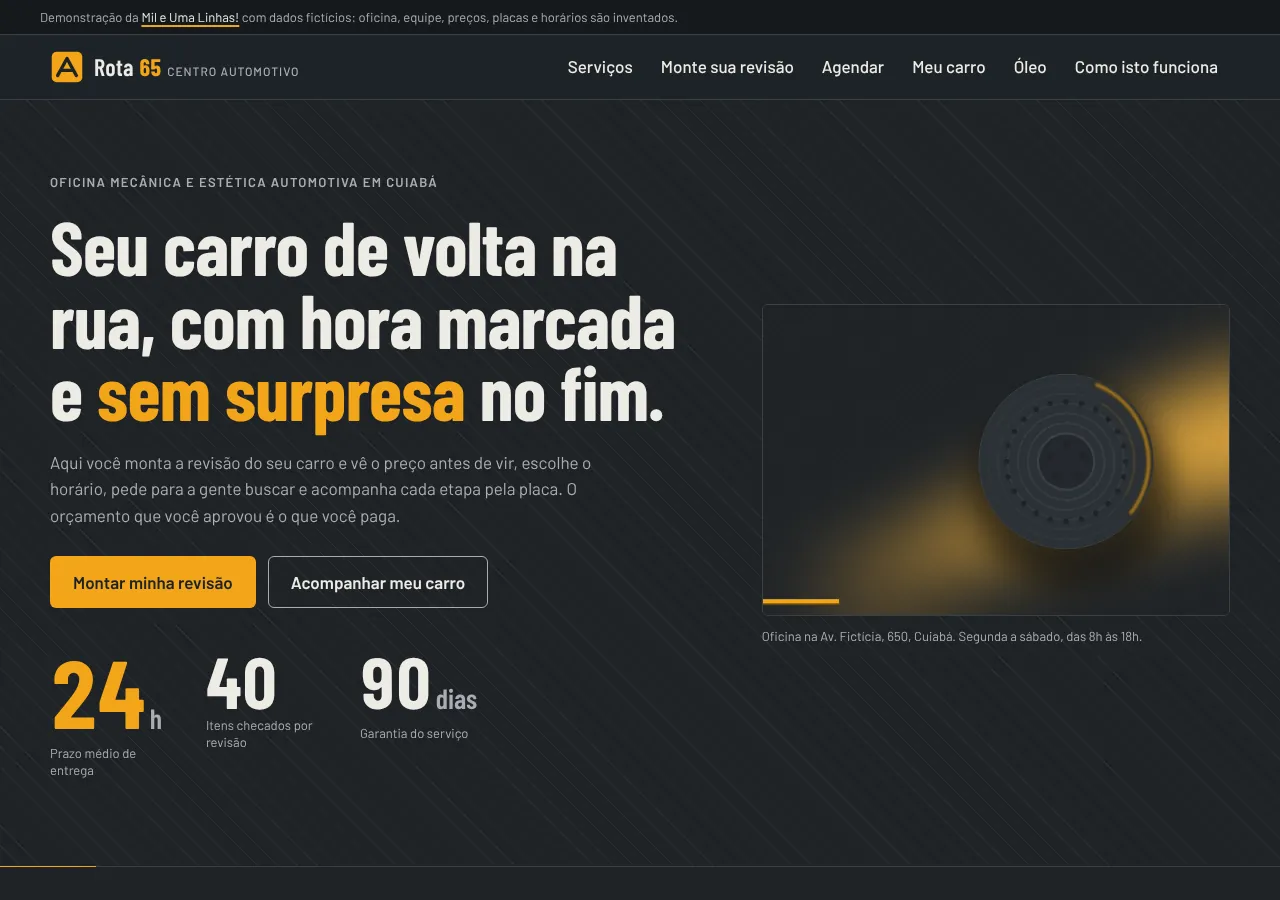
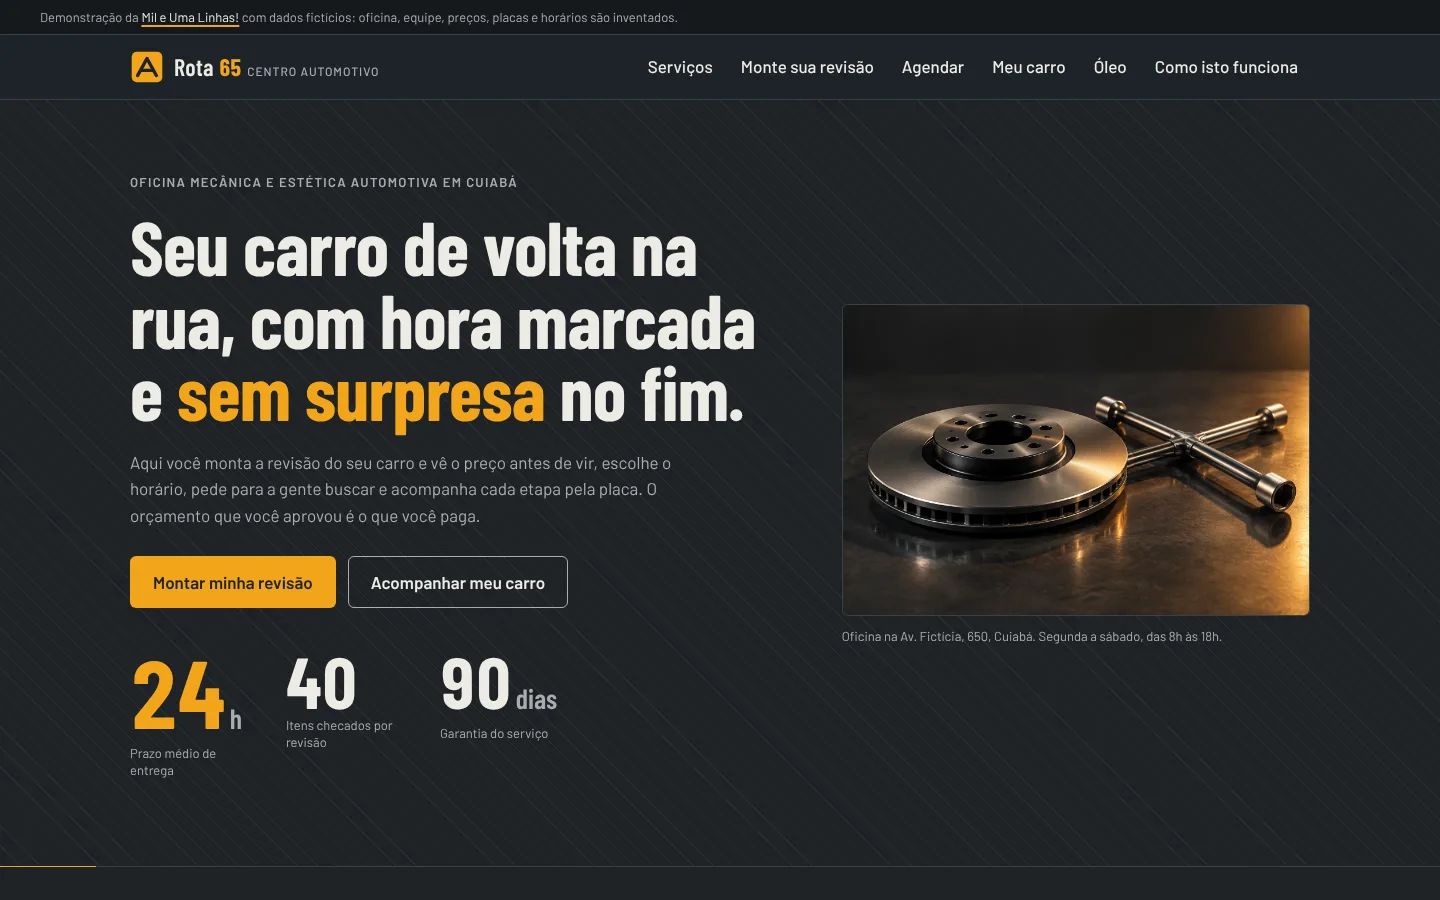
Troca o hero por foto gerada no Canva
Substitui img/hero.webp, antes uma composicao provisoria feita com
Pillow, por uma foto gerada por IA no Canva a partir do prompt da secao
"Foto do hero" de docs/identidade.md. Ajusta largura, altura e texto
alternativo da imagem no index.html, o teste de largura em
tests/site.cjs, o README e a documentacao, e refaz as capturas
docs/capa-desktop.webp e docs/capa-celular.webp. Testes em 1280x900,
iPhone 13 e 320px passando.

Claude-Session: https://claude.ai/code/session_015DVsuVad392kn1wvAjF541

diff --git a/index.html b/index.html
@@ -65,7 +65,7 @@
           </dl>
         </div>
         <figure class="hero-figura">
-          <img class="hero-foto" src="img/hero.webp" width="1600" height="1067" alt="Disco de freio sobre o piso grafite da oficina, iluminado por uma luz âmbar vinda da direita" fetchpriority="high">
+          <img class="hero-foto" src="img/hero.webp" width="1620" height="1080" alt="Disco de freio ao lado de uma chave de roda em cruz, sobre bancada escura iluminada por luz âmbar." fetchpriority="high">
           <figcaption>Oficina na Av. Fictícia, 650, Cuiabá. Segunda a sábado, das 8h às 18h.</figcaption>
         </figure>
       </div>
